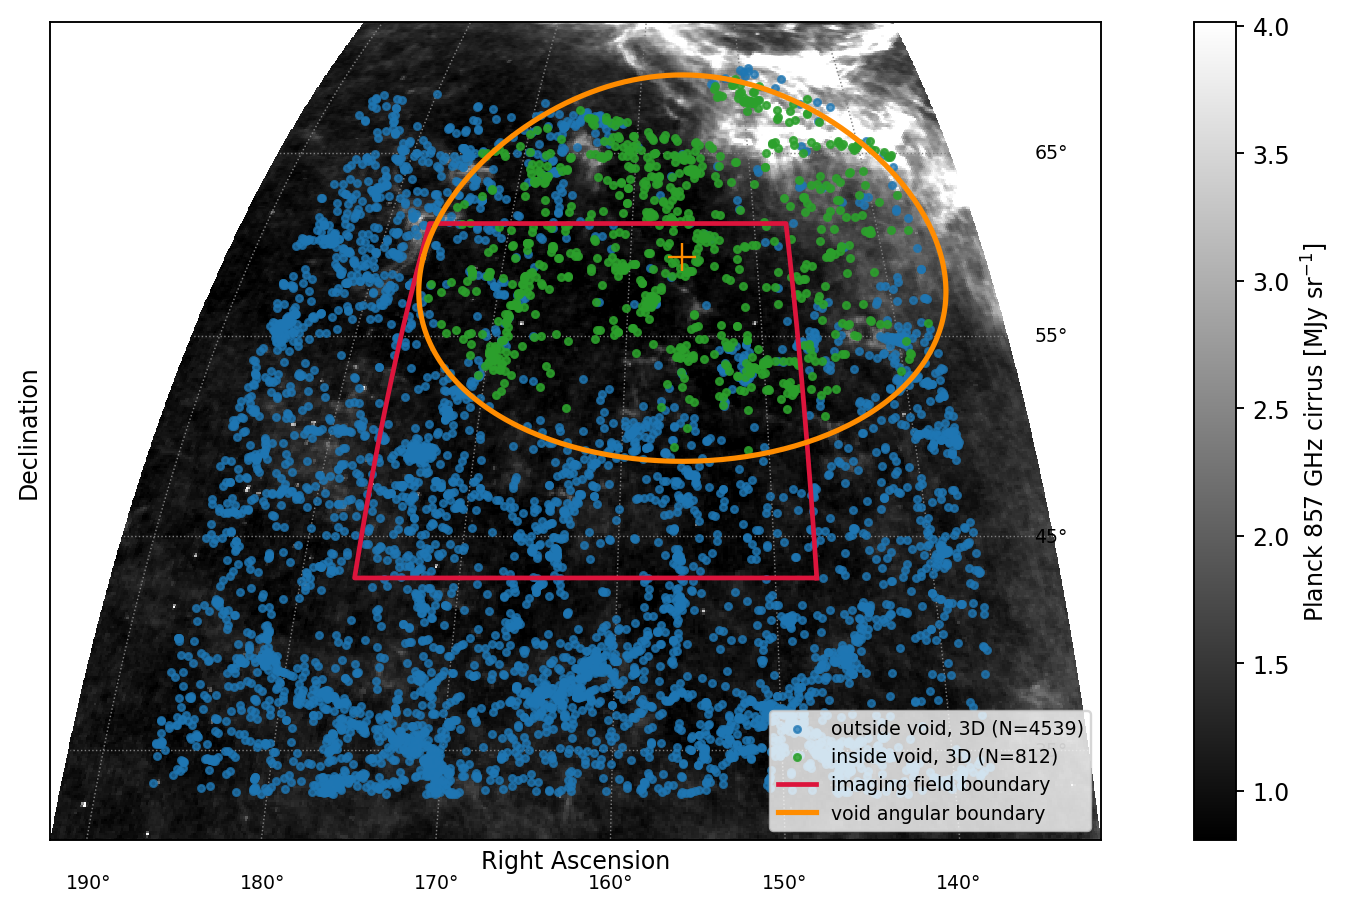
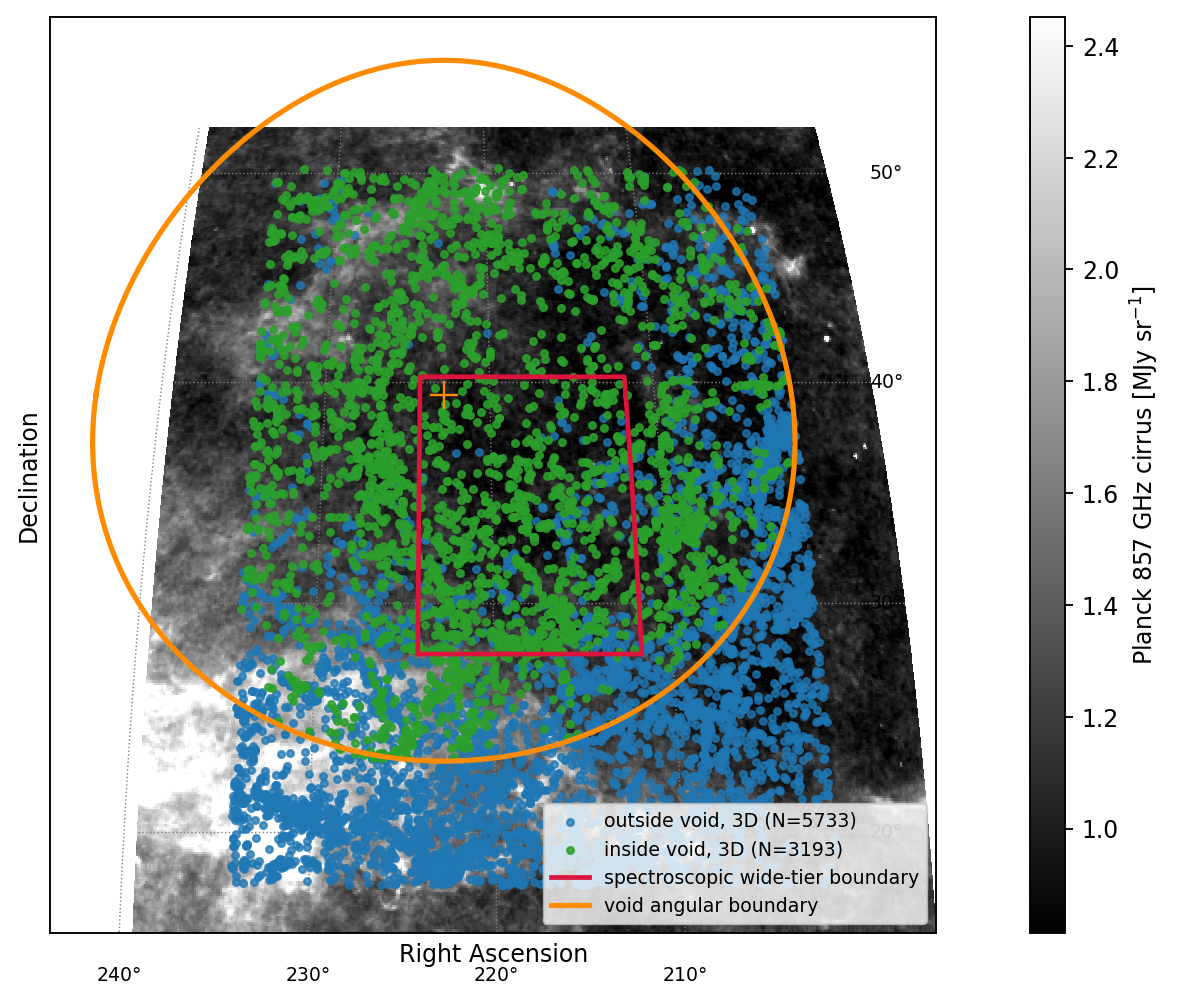
Ground the LSBG/UDG/void methodology in the survey's own field structure: distinguish imaging-only LSBG discovery from redshift-confirmed UDG/void membership, and relocate the void demonstration figure to the flagship Bootes spectroscopic wide tier where the mission's own slitless spectroscopy actua

diff --git a/docs/cosmology_35m_R1000_proposal.tex b/docs/cosmology_35m_R1000_proposal.tex
@@ -1673,6 +1673,8 @@ The Ly$\alpha$ program is scoped as a calibration, tomography, and absorber-cens
 
 The low-surface-brightness (LSB) Universe is the part of the galaxy population that lies below the night-sky background. It is precisely the part that ordinary flux-limited surveys miss. Diffuse stellar systems, the faint outer envelopes of galaxies, and the intracluster light which fills the space between cluster members all encode information that the bright, high-contrast Universe does not. For dark matter this matters directly. In a galaxy cluster the baryons that are easiest to see, the member galaxies and the X-ray gas, are dynamically subdominant and spatially biased relative to the total mass. The faint diffuse light, by contrast, turns out to follow the dark matter remarkably well. The program therefore runs in two complementary modes. The first is a blind imaging census. It costs no extra observing time because it rides the same wide, medium, and deep tiers as the flagship survey. It finds the field LSBGs and UDGs, characterising them together with the void dark-galaxy candidates of Section~\ref{sec:dwarfvoid}. The second is a targeted deep mode. It spends long multi-roll exposures on $\sim$20--40 nearby clusters to map the ultra-diffuse galaxies and the intracluster light as tracers of the cluster dark matter distribution.
 
+These three target classes are not confirmed the same way. An LSBG is defined by its observed surface brightness, a quantity the imaging measures directly. Therefore, no distance is needed to place a candidate in the catalog. A UDG is defined instead by its physical effective radius, a size in kiloparsecs rather than in arcseconds. Converting the angular size the imaging measures into that physical size requires a distance. A UDG classification is therefore confirmed only once a redshift is in hand, from an emission line in the slitless spectrum for a gas-rich system or from the assumed cluster distance for a quiescent one in a known cluster. A void galaxy carries the same requirement for a different reason. Its membership is decided by its true three-dimensional position inside a cataloged void rather than by its position on the sky alone, since a flat sky projection also captures galaxies that merely lie in front of or behind the void along the line of sight (Section~\ref{sec:voidphenom}). Confirming that position again requires a redshift. What follows keeps this distinction in view, LSBG discovery from imaging alone against UDG and void confirmation from imaging paired with spectroscopy.
+
 \subsubsection{The Low-Surface-Brightness Regime and Why It Demands Space}
 
 Surface brightness, unlike flux, is preserved under distance in a static universe. Cosmological dimming degrades it strongly, $\mu(z)=\mu_0+10\log_{10}(1+z)$ mag\,arcsec$^{-2}$, the $(1+z)^4$ law. An ultra-diffuse galaxy with a central surface brightness of $\mu_0\simeq24$ mag\,arcsec$^{-2}$ is dimmed by $1.1$ mag by $z=0.3$ and by $3$ mag by $z=1$. It then sinks far below the few-percent level of sky-background control that ground-based imaging can realistically achieve. The limiting factors on the ground are not photon statistics but systematics. The airglow is bright and variable. Scattered light and flat-fielding errors add structure on exactly the large angular scales that diffuse sources subtend. The faintest reliable ground-based surface-brightness limits reach $\mu\sim28$--$29$ mag\,arcsec$^{-2}$. The purpose-built Dragonfly Telephoto Array, designed specifically to suppress scattered light, pushes to $\mu\sim30$--$31$ mag\,arcsec$^{-2}$ \cite{abraham2014dragonfly}. A space platform removes the airglow term entirely. It also stabilizes the point-spread function and the photometric response. The achievable depth is then set by integration time and by the Galactic cirrus foreground rather than by a fluctuating sky. Long exposures over a wide, contiguous field are therefore the natural mode in which a space telescope outperforms larger ground-based apertures for diffuse science. That combination is precisely what the mission's \fovlarge\ field delivers. Figure~\ref{fig:lsbggallery} shows what this population actually looks like. Its twelve galaxies from the published DES low-surface-brightness catalog \cite{tanoglidis2021} span mean surface brightness $\bar\mu_g=25.0$--$27.2$ mag\,arcsec$^{-2}$. The faint end is already at the edge of visibility in some of the deepest wide-area ground imaging in existence.
@@ -1721,7 +1723,7 @@ What turns this catalog into physics is the spectroscopy taken simultaneously. U
 
 For the faintest diffuse work the program adds two dedicated ultra-deep imaging fields, deliberately far smaller than the blind census, which keeps riding the full survey tiers. Each field is a $3\times3$ block of $30'$ tiles, $1.5^\circ$ on a side and $2.25$\,deg$^2$, sited on the cleanest sky available, found by minimising the mean Planck 857\,GHz intensity over a $7^\circ$ aperture across all $|b|>48^\circ$ sky \cite{planck2018hfi}. The minima fall at $(\alpha,\delta)=(210^\circ,+38^\circ)$, $b=+72^\circ$, in the north, just outside the corner of the flagship Bo\"otes wide tier, and $(344^\circ,-48^\circ)$, $b=-59^\circ$, in the south. Their field-mean $857$\,GHz intensities are $0.97$ and $0.92$\,MJy\,sr$^{-1}$, about a quarter of the all-sky median of $3.6$\,MJy\,sr$^{-1}$ and $\sim30\%$ below the SXDS window ($1.30$\,MJy\,sr$^{-1}$). The top row of Figure~\ref{fig:imgfields} zooms on both fields, confirming directly on the dust map that the footprints are free of cirrus structure. Their locations are marked on the all-sky view of Figure~\ref{fig:skymap}. The fields are observed in the five survey bands, $g$ ($0.5\,\mu$m) and $z$ ($0.9\,\mu$m) on the CCD arm and $J$, $H$, and $K$ ($1.2$, $1.6$, $2.2\,\mu$m) on the HgCdTe arm (Figure~\ref{fig:compareimg}). Because the dichroic feeds both arms simultaneously, the deep $g$ and $H$ pair is collected at once. Sixteen hours per tile in that pair reach $\mu_{5\sigma}(10'')=31.5$ in $g$ and $31.2$ in $H$ from the exposure-time calculator, the regime of the almost-dark galaxy Nube (Figure~\ref{fig:nube}), for about $290$\,hr over both caps. Two shallower passes add $z$, $J$, and $K$ for the colours, stellar-population diagnostics, and photometric redshifts of the catalog.
 
-In the opposite direction the imaging also extends far beyond the spectroscopic footprint, since imaging-only tiles are cheap. An imaging-only wide extension adds a $35\times35$-tile field, $17.5^\circ$ on a side and $\sim$306\,deg$^2$, per cap, sited by the same cirrus-minimisation criterion with a matching aperture. The northern extension field, at $(\alpha,\delta)=(162^\circ,+52^\circ)$, $b=+56^\circ$, sits beside the Lockman Hole, the classic low-column window of the northern sky. The southern field, at $(3^\circ,-38^\circ)$, $b=-77^\circ$, lies near the south Galactic pole. Both fields have footprint-mean $857$\,GHz intensities of $0.97$\,MJy\,sr$^{-1}$. A quarter of an hour per tile in the simultaneous $g$+$H$ pair reaches $\mu_{5\sigma}(10'')=29.2$ in $g$ and $28.9$ in $H$, still about two magnitudes past the DES imaging behind Figures~\ref{fig:lsbggallery} and \ref{fig:udggallery}, for about $610$\,hr in total. The extension roughly triples the area of the blind census, raising its guaranteed floor at the published DES surface density \cite{tanoglidis2021} to over three thousand LSBGs. Both extension fields are marked in magenta on Figure~\ref{fig:skymap} and zoomed in the bottom row of Figure~\ref{fig:imgfields}. The flat-field and cirrus-foreground control that this diffuse photometry requires is common to every imaging program of the mission and is treated in Section~\ref{sec:flatcirrus}.
+In the opposite direction the imaging also extends far beyond the spectroscopic footprint, since imaging-only tiles are cheap. An imaging-only wide extension adds a $35\times35$-tile field, $17.5^\circ$ on a side and $\sim$306\,deg$^2$, per cap, sited by the same cirrus-minimisation criterion with a matching aperture. The northern extension field, at $(\alpha,\delta)=(162^\circ,+52^\circ)$, $b=+56^\circ$, sits beside the Lockman Hole, the classic low-column window of the northern sky. The southern field, at $(3^\circ,-38^\circ)$, $b=-77^\circ$, lies near the south Galactic pole. Both fields have footprint-mean $857$\,GHz intensities of $0.97$\,MJy\,sr$^{-1}$. A quarter of an hour per tile in the simultaneous $g$+$H$ pair reaches $\mu_{5\sigma}(10'')=29.2$ in $g$ and $28.9$ in $H$, still about two magnitudes past the DES imaging behind Figures~\ref{fig:lsbggallery} and \ref{fig:udggallery}, for about $610$\,hr in total. The extension roughly triples the area of the blind census, raising its guaranteed floor at the published DES surface density \cite{tanoglidis2021} to over three thousand LSBGs. Because the imaging-only wide extension and the two ultra-deep fields carry no spectroscopy, they extend the LSBG catalog alone. A candidate found there enters the confirmed UDG sample only once an external facility supplies its distance, and it plays no part in the void-membership test of Section~\ref{sec:voidphenom}, which needs that same redshift-based three-dimensional position. Both extension fields are marked in magenta on Figure~\ref{fig:skymap} and zoomed in the bottom row of Figure~\ref{fig:imgfields}. The flat-field and cirrus-foreground control that this diffuse photometry requires is common to every imaging program of the mission and is treated in Section~\ref{sec:flatcirrus}.
 
 \begin{figure}[tp]
 \centering
@@ -1913,12 +1915,12 @@ Beyond the inner density structure, the sheer \emph{abundance} of low-mass halos
 
 Voids are the cleanest place to isolate it. Cold dark matter predicts that voids are filled with low-mass halos, yet the observed void galaxy population is sparse and, where present, consists of faint late-type dwarfs, the long-standing ``void phenomenon'' \cite{peebles2001}. Two resolutions are possible, and they point in opposite directions for the nature of dark matter. Either the low-mass halos exist but failed to form stars, because the ultraviolet background and inefficient gas cooling suppressed star formation below a halo-mass threshold of a few $\times10^{9}\,M_\odot$ \cite{hoeft2010}. This would leave voids full of gas-bearing but optically dark or ultra-faint systems still waiting to be found. Or the low-mass halos are themselves suppressed, as warm or fuzzy dark matter would predict. Because a void's underdensity is not replenished by accretion, a small-scale cutoff in the power spectrum shows up there with the least astrophysical contamination and the least tidal confusion. Therefore, the faint-end slope of the void galaxy and H\,\textsc{i} mass functions is among the most direct measurements of low-mass halo abundance available, complementing rather than duplicating the satellite-based bound. Voids are also a cosmological probe in their own right. The abundance, sizes, shapes, and outflow velocities of the galaxies streaming out of them constrain the growth rate of structure, the dark-energy equation of state, and the summed neutrino mass \cite{hamaus2016}. A spectroscopic survey that places accurate redshifts on faint void galaxies therefore improves the geometric definition of the voids and their interior tracer density, while also delivering the dark-matter census.
 
-Figure~\ref{fig:voidwedge} makes the void-search target selection concrete with real data rather than an assumed catalog. It shows the one void of the independent Bayesian catalog of Malandrino et al.\ \cite{malandrino2026} whose center falls inside the imaging-only wide-extension field beside the Lockman Hole (Section~\ref{sec:lsb}), with a published position, redshift, and radius rather than an estimate made for this proposal. Real SDSS-I/II Main Galaxy Sample spectroscopy in the void's own radial extent, its comoving distance plus and minus its cataloged radius, is classified by the true three-dimensional distance from the void center rather than by sky position alone, since a flat sky projection otherwise mixes in galaxies that merely sit in front of or behind the void along the line of sight. The same cross-match against published void catalogs, repeated across the wide, medium, and deep spectroscopic tiers, is what selects the void interiors that the search of Section~\ref{sec:dwarfvoid} tiles.
+Figure~\ref{fig:voidwedge} makes the void-search target selection concrete with real data rather than an assumed catalog. It shows the one void of the independent Bayesian catalog of Malandrino et al.\ \cite{malandrino2026} whose center falls inside the flagship Bo\"otes wide spectroscopic tier (Section~\ref{sec:deepfields}), with a published position, redshift, and radius rather than an estimate made for this proposal. The location matters. Void membership needs the same redshift-based three-dimensional position that a UDG classification requires (Section~\ref{sec:lsb}). The imaging-only wide extension and the ultra-deep fields carry no spectroscopy and cannot supply it, while the wide, medium, and deep spectroscopic tiers can. Real SDSS-I/II Main Galaxy Sample spectroscopy over the void's own radial extent, its comoving distance plus and minus its cataloged radius, classifies each galaxy by its true three-dimensional distance from the void center rather than by sky position alone, since a flat sky projection otherwise mixes in galaxies that merely sit in front of or behind the void along the line of sight. The same cross-match against published void catalogs, repeated across the wide, medium, and deep spectroscopic tiers, is what selects the void interiors that the search of Section~\ref{sec:dwarfvoid} tiles.
 
 \begin{figure}[tp]
 \centering
 \includegraphics[width=\textwidth]{void_wedge_demo.png}
-\caption{Sky projection of the one void of the independent Bayesian catalog of Malandrino et al.\ \cite{malandrino2026} whose center falls inside the Lockman Hole imaging-only wide-extension field (Section~\ref{sec:lsb}), plotted at the void's own cataloged position and radius. Points are real SDSS-I/II Main Galaxy Sample spectroscopic redshifts (\texttt{survey='sdss'}, excluding BOSS/eBOSS), queried live from SkyServer DR17 over the void's own radial extent, and classified by their true three-dimensional comoving distance from the void center. Green points lie inside the void's sphere. Blue points lie outside it, at the same sky position and the same distance shell, but not within the sphere itself, since the sky projection also captures galaxies in front of and behind the void along the line of sight. The grey background is the Planck 857~GHz cirrus map of the same field, reprojected through the same transform (the flat-fielding and cirrus control common to every imaging program of the mission is treated in Section~\ref{sec:flatcirrus}). Red marks the field boundary. Orange marks the void's angular boundary. The projection is Mollweide, mirrored to match the view looking up at the sky rather than down at a map, with right ascension increasing to the left.}
+\caption{Sky projection of the one void of the independent Bayesian catalog of Malandrino et al.\ \cite{malandrino2026} whose center falls inside the flagship Bo\"otes wide spectroscopic tier (Section~\ref{sec:deepfields}), plotted at the void's own cataloged position and radius. Points are real SDSS-I/II Main Galaxy Sample spectroscopic redshifts (\texttt{survey='sdss'}, excluding BOSS/eBOSS), queried live from SkyServer DR17 over the void's own radial extent, and classified by their true three-dimensional comoving distance from the void center. Green points lie inside the void's sphere. Blue points lie outside it, at the same sky position and the same distance shell, but not within the sphere itself, since the sky projection also captures galaxies in front of and behind the void along the line of sight. The grey background is the Planck 857~GHz cirrus map of the same field, reprojected through the same transform (the flat-fielding and cirrus control common to every imaging program of the mission is treated in Section~\ref{sec:flatcirrus}). Red marks the spectroscopic wide-tier boundary. Orange marks the void's angular boundary. The projection is Mollweide, mirrored to match the view looking up at the sky rather than down at a map, with right ascension increasing to the left.}
 \label{fig:voidwedge}
 \end{figure}
 
